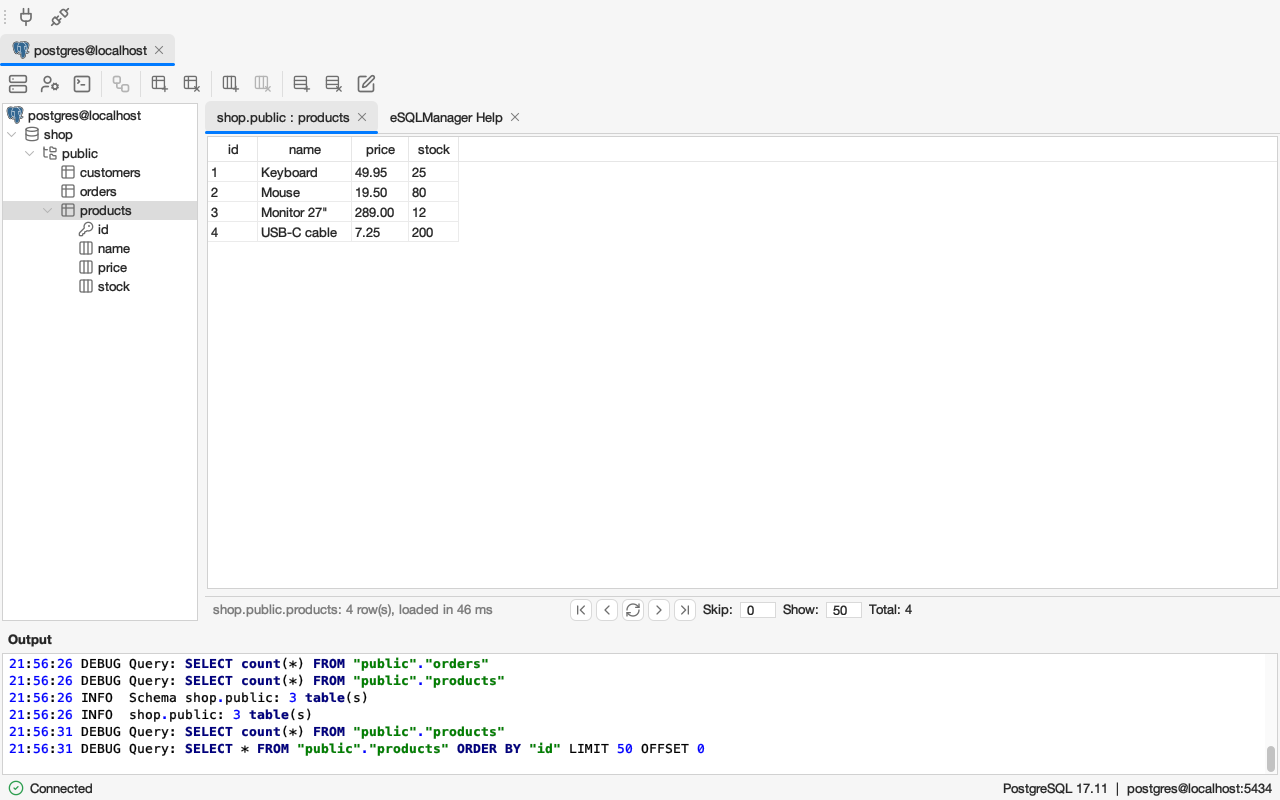
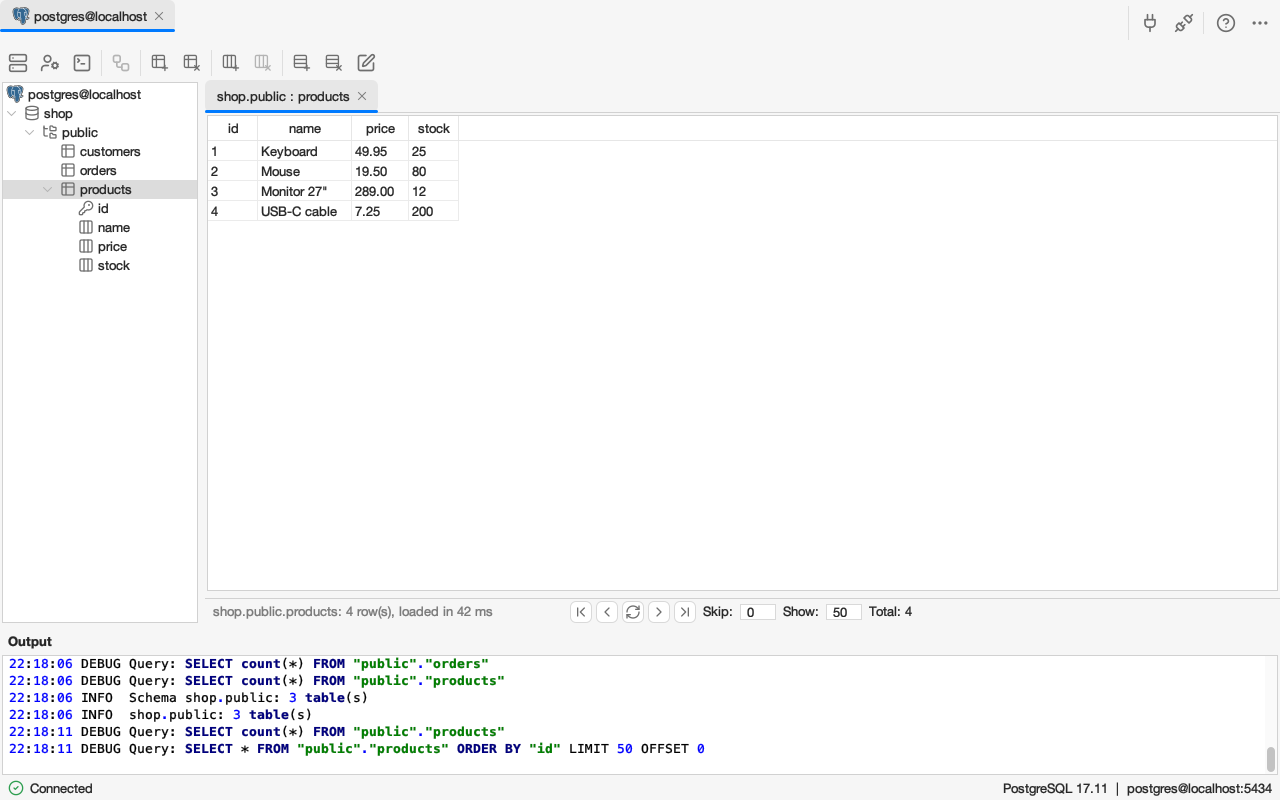
feat: show the window tabs next to the toolbar buttons
The window tabs fill the top row, the Connect and Disconnect buttons sit at
the right end behind a separator, followed by Help and Preferences buttons.
The help is a window tab of its own instead of a tab in each connection window.

Claude-Session: https://claude.ai/code/session_01TpgfMUNA4K1qpyx5mWFodg

Changed region(s): [[0.0, 0.0, 1.0, 0.375], [0.1562, 0.7188, 1.0, 0.7812], [0.0, 0.7812, 0.0625, 0.9375]]

diff --git a/src/main/java/nl/errorsoft/esql/app/ui/MainWindow.java b/src/main/java/nl/errorsoft/esql/app/ui/MainWindow.java
@@ -2,6 +2,7 @@ package nl.errorsoft.esql.app.ui;
 
 import nl.errorsoft.esql.app.ui.dialog.AboutDialog;
 
+import nl.errorsoft.esql.help.ui.HelpWindow;
 import nl.errorsoft.esql.ui.util.ToolbarButtons;
 
 import nl.errorsoft.esql.ui.dialog.Dialogs;
@@ -43,6 +44,10 @@ public class MainWindow extends JFrame implements ActionListener {
 	private JMenuItem exitItem;
 	private JMenu settingsMenu;
 	private JMenuItem settingsItem;
+	private JButton helpButton;
+	private JMenuItem helpItem;
+	private HelpWindow helpWindow; // The documentation, null while it is closed.
+	private JButton preferencesButton;
 	private JMenuItem jdbcItem;
 	private JMenu serverMenu;
 	private JMenuItem processesItem;
@@ -190,6 +195,8 @@ public class MainWindow extends JFrame implements ActionListener {
 
 		helpMenu = new JMenu("Help");
 		aboutItem = new JMenuItem("About...");
+		helpItem = new JMenuItem("eSQLManager Help");
+		helpMenu.add(helpItem);
 		helpMenu.add(aboutItem);
 		menubar.add(helpMenu);
 
@@ -200,7 +207,7 @@ public class MainWindow extends JFrame implements ActionListener {
 		 */
 		toolbar = new JToolBar();
 		toolbar.setLayout(new FlowLayout(FlowLayout.LEFT, 2, 0));
-		toolbar.setFloatable(true);
+		toolbar.setFloatable(false);
 		connectButton = new JButton(imageLoader.getIcon("imgConnect"));
 		connectButton.setEnabled(true);
 		connectButton.setToolTipText("Connect");
@@ -211,8 +218,20 @@ public class MainWindow extends JFrame implements ActionListener {
 		disconnectButton.setToolTipText("Disconnect");
 		toolbar.add(disconnectButton);
 
-		ToolbarButtons.style(connectButton, disconnectButton);
-		this.getContentPane().add(toolbar, BorderLayout.NORTH);
+		helpButton = new JButton(imageLoader.getIcon("imgHelp"));
+		helpButton.setToolTipText("Help");
+		helpButton.getAccessibleContext().setAccessibleName("Help");
+		JSeparator buttonsSeparator = new JSeparator(SwingConstants.VERTICAL);
+		buttonsSeparator.setPreferredSize(new Dimension(6, 22));
+		toolbar.add(buttonsSeparator);
+		toolbar.add(helpButton);
+
+		preferencesButton = new JButton(imageLoader.getIcon("imgPreferences"));
+		preferencesButton.setToolTipText("Preferences");
+		preferencesButton.getAccessibleContext().setAccessibleName("Preferences");
+		toolbar.add(preferencesButton);
+
+		ToolbarButtons.style(connectButton, disconnectButton, helpButton, preferencesButton);
 
 		/*
 		 *	Statusbar
@@ -260,8 +279,16 @@ public class MainWindow extends JFrame implements ActionListener {
 		desktop = new JDesktopPane();
 		desktop.setBackground(UIManager.getColor("Desktop.background"));
 		windowTabs = new WindowTabsPanel(desktop);
+		// The window tabs share the row with the toolbar buttons: tabs fill the width, the buttons sit at the right end behind a thin line.
+		JPanel topRow = new JPanel(new BorderLayout());
+		JPanel toolbarEnd = new JPanel(new BorderLayout());
+		toolbarEnd.setBorder(BorderFactory.createEmptyBorder(6, 4, 6, 0));
+		toolbarEnd.add(new JSeparator(SwingConstants.VERTICAL), BorderLayout.WEST);
+		toolbarEnd.add(toolbar, BorderLayout.CENTER);
+		topRow.add(windowTabs, BorderLayout.CENTER);
+		topRow.add(toolbarEnd, BorderLayout.EAST);
+		this.getContentPane().add(topRow, BorderLayout.NORTH);
 		JPanel workArea = new JPanel(new BorderLayout());
-		workArea.add(windowTabs, BorderLayout.NORTH);
 		workArea.add(desktop, BorderLayout.CENTER);
 
 		//ScrollPane for tree.
@@ -290,6 +317,9 @@ public class MainWindow extends JFrame implements ActionListener {
 		exitItem.addActionListener(this);
 
 		settingsItem.addActionListener(this);
+		preferencesButton.addActionListener(this);
+		helpButton.addActionListener(e -> showHelp());
+		helpItem.addActionListener(e -> showHelp());
 		nextWindowItem.addActionListener(e -> windowTabs.selectNext(1));
 		previousWindowItem.addActionListener(e -> windowTabs.selectNext(-1));
 
@@ -404,6 +434,19 @@ public class MainWindow extends JFrame implements ActionListener {
 		updateMenus();
 	}
 
+	/** Shows the help in a tab of its own, or brings it to the front when it is open. */
+	public void showHelp() {
+		if (helpWindow == null) {
+			helpWindow = new HelpWindow(() -> {
+				windowTabs.removeWindow(helpWindow);
+				helpWindow = null;
+			});
+			windowTabs.addWindow(helpWindow);
+		} else {
+			windowTabs.select(helpWindow);
+		}
+	}
+
 	/** Shows a designer on the desktop with a tab of its own, in front. */
 	public void addDesignerWindow(DesignerWindow designer) {
 		windowTabs.addWindow(designer);
@@ -458,7 +501,7 @@ public class MainWindow extends JFrame implements ActionListener {
 			closeWindow();
 		} else if (object == connectItem || object == connectButton) {
 			mainController.showConnectionProfileDialog();
-		} else if (object == settingsItem) {
+		} else if (object == settingsItem || object == preferencesButton) {
 			mainController.showSettingsDialog();
 		} else if (object == disconnectItem || object == disconnectButton) {
 			ConnectionWindow connectionWindow = getConnectionWindow();

diff --git a/src/main/java/nl/errorsoft/esql/connection/ui/ConnectionWindow.java b/src/main/java/nl/errorsoft/esql/connection/ui/ConnectionWindow.java
@@ -15,7 +15,6 @@ import nl.errorsoft.esql.connection.TreeMenu;
 import nl.errorsoft.esql.connection.TreeSelection;
 import nl.errorsoft.esql.database.ui.DatabaseTree;
 import nl.errorsoft.esql.query.ui.QueryTab;
-import nl.errorsoft.esql.help.ui.HelpPanel;
 import nl.errorsoft.esql.ui.icon.ImageLoader;
 import nl.errorsoft.esql.ui.component.EditorTab;
 
@@ -48,12 +47,10 @@ public class ConnectionWindow extends JInternalFrame implements ActionListener, 
 	private JScrollPane treeScroll; // Scroll pane for the tree
 	private JSplitPane treeSplit; // Tree and the tabs
 	private JTabbedPane tabbedPane; // Contains the tabs
-	private JScrollPane helpPane;
 	private static final String READY = "Ready"; // Only sizes the status bar
 	private JLabel status;
 	private JPanel navigation;
 	private Component viewTab; // The table data or table list, shown in front of the help
-	private HelpPanel html; // The user documentation from docs/.
 	private int queryTabs; // Query tabs opened so far, for their numbers
 	private static final String EDITOR_KEY = "ConnectionWindow.editorKey"; // Finds an editor tab again
 	private static final String STATUS_KEY = "ConnectionWindow.status"; // The status message of a tab
@@ -160,16 +157,10 @@ public class ConnectionWindow extends JInternalFrame implements ActionListener, 
 		 *		Right SplitPane setup
 		 */
 
-		// EditorPane
-		html = new HelpPanel();
-
 		// TabbedPane properties.
 		tabbedPane = new JTabbedPane();
 		tabbedPane.putClientProperty("JTabbedPane.tabClosable", true);
 		tabbedPane.putClientProperty("JTabbedPane.tabCloseCallback", (java.util.function.BiConsumer<JTabbedPane, Integer>) (pane, index) -> closeTab(index));
-		helpPane = new JScrollPane(html);
-		tabbedPane.addTab("eSQLManager Help", helpPane);
-		tabbedPane.setSelectedIndex(0);
 
 		/******************************************************************
 		 *
@@ -384,15 +375,6 @@ public class ConnectionWindow extends JInternalFrame implements ActionListener, 
 		}
 
 		viewTab = view;
-	}
-
-	/** Shows the help, also when its tab has been closed. */
-	public void showHelp() {
-		if (this.tabbedPane.indexOfComponent(helpPane) < 0) {
-			this.tabbedPane.addTab("eSQLManager Help", helpPane);
-		}
-
-		this.tabbedPane.setSelectedComponent(helpPane);
 	}
 
 	/** The paging buttons belong to the table data, they are only shown while that tab is in front. */

diff --git a/src/main/java/nl/errorsoft/esql/help/ui/HelpWindow.java b/src/main/java/nl/errorsoft/esql/help/ui/HelpWindow.java
@@ -1,0 +1,27 @@
+package nl.errorsoft.esql.help.ui;
+
+import javax.swing.JInternalFrame;
+import javax.swing.JScrollPane;
+import javax.swing.event.InternalFrameAdapter;
+import javax.swing.event.InternalFrameEvent;
+
+import nl.errorsoft.esql.app.ApplicationContext;
+
+/** The user documentation as a work window of the main window, with a tab of its own; it needs no connection. */
+public class HelpWindow extends JInternalFrame {
+	public static final String TITLE = "eSQLManager Help";
+
+	/** @param onClose called when the user closes the window, it takes the window off the desktop */
+	public HelpWindow(Runnable onClose) {
+		super(TITLE, true, true);
+		setFrameIcon(ApplicationContext.get().imageLoader().getIcon("imgHelpTab"));
+		setDefaultCloseOperation(JInternalFrame.DO_NOTHING_ON_CLOSE);
+		add(new JScrollPane(new HelpPanel()));
+		addInternalFrameListener(new InternalFrameAdapter() {
+			@Override
+			public void internalFrameClosing(InternalFrameEvent e) {
+				onClose.run();
+			}
+		});
+	}
+}

diff --git a/src/main/java/nl/errorsoft/esql/connection/control/ConnectionWindowController.java b/src/main/java/nl/errorsoft/esql/connection/control/ConnectionWindowController.java
@@ -194,7 +194,6 @@ public class ConnectionWindowController {
 			mainController.updateStatus("Loading databases...", true);
 			DatabaseController databaseController = new DatabaseController(this);
 			connectionWindow.showDatabaseTree(databaseController.getDatabaseTree());
-			connectionWindow.showHelp();
 			mainController.showConnectionState();
 		} catch (Exception e) {
 			ApplicationContext.get().errors().report(connectionWindow, "Load databases", e);
@@ -204,7 +203,6 @@ public class ConnectionWindowController {
 	/** Shows the databases listed on another thread in the tree, on the event thread. */
 	private void showDatabaseTree(List<Database> databases) {
 		connectionWindow.showDatabaseTree(new DatabaseController(this).databaseTree(databases));
-		connectionWindow.showHelp();
 		mainController.showConnectionState();
 	}
 

diff --git a/src/main/java/nl/errorsoft/esql/app/ApplicationContext.java b/src/main/java/nl/errorsoft/esql/app/ApplicationContext.java
@@ -39,6 +39,9 @@ public final class ApplicationContext {
 			images.addImage("../images/splash.gif", "esql");
 			images.addIcon("imgConnect", "connect", 20, false);
 			images.addIcon("imgDisconnect", "disconnect", 20, false);
+			images.addIcon("imgHelp", "circle-help", 20, false);
+			images.addIcon("imgHelpTab", "circle-help", 16, false);
+			images.addIcon("imgPreferences", "ellipsis", 20, false);
 			images.addIcon("pc", "server", 16, false);
 			images.addBrandIcon("serverPostgres", "brand-postgresql", 18);
 			images.addBrandIcon("serverMySql", "brand-mysql", 18);

diff --git a/CLAUDE.md b/CLAUDE.md
@@ -47,7 +47,7 @@ Java Swing database manager (originally an Errorsoft graduation project, 2002-20
 * Look and feel is FlatLaf, chosen through `settings.Appearance` (Follow the system, Light, Dark, Native) and stored in `conf/settings.xml` (`<appearance>`), changed in Settings > Preferences and applied at once. On macOS FlatLaf uses its Mac themes, `Main` sets the screen menu bar and system appearance properties before the first window (`Appearance.prepareDesktop`). The native macOS look was far too slow when resizing, so it is only used when the user picks Native.
 * Use Swing only, no AWT widgets (`Label`, `Button`, ...). Dialogs use layout managers, not null layouts with absolute bounds; `ui.util.Forms` gives the 12px padding, the button row at the bottom right, titled groups and a label/field grid. Only the designer canvas (`DesignerCanvas`, its cards, the text inside a `NoteCard`) and the splash (credits scrolled over a fixed image) place components at absolute positions.
 * Do not hardcode `Color.white` or `Color.gray`. Take colours from `UIManager` (grid lines `Table.gridColor`). A read-only `JTextPane` is painted grey by FlatLaf, set its background explicitly. A problem or success message takes `Forms.errorColor()` / `Forms.successColor()` (the theme's `Actions.Red`/`Actions.Green`, one fallback each).
-* The help tab (`help.ui.HelpPanel`) renders the Markdown of docs/ with `HelpPages.render(name, dark)`: a white page in light themes, a dark one in dark themes (the pane takes its background from the same `HelpPages.LIGHT_BACKGROUND`/`DARK_BACKGROUND`), rendered again when the look and feel changes.
+* The help (`help.ui.HelpPanel`, shown by `help.ui.HelpWindow`, a work window with its own tab in the window bar like a connection window; `MainWindow.showHelp` opens it or brings the open one forward, it needs no connection; the Help button, the Help menu item) renders the Markdown of docs/ with `HelpPages.render(name, dark)`: a white page in light themes, a dark one in dark themes (the pane takes its background from the same `HelpPages.LIGHT_BACKGROUND`/`DARK_BACKGROUND`), rendered again when the look and feel changes.
 * Settings has only the appearance; there is no auto-update.
 * Swing is touched on the event thread. `MainWindow.print` and `setStatusInfo` marshal themselves with `invokeLater`.
 * The query editor is an `RSyntaxTextArea` (com.fifesoft) in an `RTextScrollPane` with SQL highlighting, line numbers and the library's undo. `ui.editor.EditorTheme.install` gives it the RSyntaxTextArea theme `idea.xml` or `dark.xml` matching `FlatLaf.isLafDark()` and applies it again when the look and feel changes.
@@ -61,10 +61,11 @@ Java Swing database manager (originally an Errorsoft graduation project, 2002-20
 * Work windows are internal frames on the desktop of the main window (`JDesktopPane`): connection windows and designers. They are always maximized and have no title bar or border (`app.ui.WindowTabsPanel` removes the UI delegate's north pane, again after a change of look and feel); their menu bar (the designer's) stays inside the frame. `WindowTabsPanel`, a `JTabbedPane` with empty content above the desktop, has a tab per window with its frame icon (the server's brand icon, the designer icon) and title (kept in sync); selecting a tab selects the frame, an activated frame selects its tab, the close cross or a middle click calls `doDefaultCloseAction` so the frame's own close path asks (Disconnect / save), and `MainWindow.removeConnectionWindow`/`removeDesignerWindow` remove the tab. The Window menu lists the open windows plus Next/Previous window (menu key+Shift+] and [). There is no tiling or cascading. No feature opens a separate top level window for its work; dialogs stay dialogs.
 * README and docs screenshots are taken in the light appearance only.
 * Destructive actions (create and drop database) are in the context menus of the tree, not in the toolbar of the connection window. Closing a connection window asks "Disconnect from <title>?" (Disconnect / Cancel).
+* The top row of the main window holds the window tabs (`app.ui.WindowTabsPanel`, filling the width, same FlatLaf tab defaults as the tabs inside a connection window, 32px) on the left and, behind a thin vertical `JSeparator`, the toolbar on the right: Connect and Disconnect, a second separator, then Help (`MainWindow.showHelp`) and Preferences (Lucide ellipsis, opens the same dialog as the menu item).
 * The output panel is a read-only `RSyntaxTextArea` with SQL colouring (`ui.editor.EditorTheme`, same theme as the query editor): it shows the log exactly as written.
 * The output panel does not wrap lines (re-wrapping a long log made resizing slow), keeps at most 200000 characters, and the split pane uses continuous layout with `resizeWeight` 1.0.
 * FlatLaf defaults of the application are set centrally in `settings.Appearance` as FlatLaf global extra defaults, so they follow the theme and survive a change of look and feel: thin flat split pane dividers, and a selected tab with a darker background and the accent underline also without focus. A tab that is opened is always put in front (`setSelectedComponent`). Split panes have no one-touch arrows.
-* The status bar of the application shows the state with its light on the left and the server and account of the active connection on the right (`ConnectionWindowController.showStatusInfo`). What a connection did last ("shop: 4 table(s) opened in the designer") is shown in the status bar below the tabs of that connection's window (`ConnectionWindow.setStatus`), on the right. A message belongs to a tab (kept as a client property of the tab component): `ConnectionWindowController.setViewStatus` (a table loaded, a table list shown) gives it to the view tab (table data or list), tree actions (`setStatusDetail(text)`: schemas listed or created, opened in the designer) go to the output panel only, `setStatus(tab, text)` (`ConnectionWindowController.setStatusDetail(tab, ...)`, used by `QueryController` for its query tab) to a given tab, and switching tabs shows the message of the new tab; a tab without a message of its own (Help, a fresh query or editor tab) leaves the bar empty; the paging buttons of the table data (`TableDataTab.getNavigationBar`) sit on the left of the same bar while the data tab is in front.
+* The status bar of the application shows the state with its light on the left and the server and account of the active connection on the right (`ConnectionWindowController.showStatusInfo`). What a connection did last ("shop: 4 table(s) opened in the designer") is shown in the status bar below the tabs of that connection's window (`ConnectionWindow.setStatus`), on the right. A message belongs to a tab (kept as a client property of the tab component): `ConnectionWindowController.setViewStatus` (a table loaded, a table list shown) gives it to the view tab (table data or list), tree actions (`setStatusDetail(text)`: schemas listed or created, opened in the designer) go to the output panel only, `setStatus(tab, text)` (`ConnectionWindowController.setStatusDetail(tab, ...)`, used by `QueryController` for its query tab) to a given tab, and switching tabs shows the message of the new tab; a tab without a message of its own (a fresh query or editor tab) leaves the bar empty; the paging buttons of the table data (`TableDataTab.getNavigationBar`) sit on the left of the same bar while the data tab is in front.
 
 ### Logging and output
 
@@ -97,7 +98,7 @@ Java Swing database manager (originally an Errorsoft graduation project, 2002-20
 * `runtime/` is the working directory: `conf/` (profiles, drivers, datatypes, settings), `credits.txt`. Code reads `conf/...` relative to the working directory, also in tests (surefire `workingDirectory`).
 * `runtime/conf/profiles.xml` must not contain passwords or local test profiles when committed. Running the application rewrites it (`lastUsed`), so `git checkout runtime/conf/profiles.xml` before committing.
 * JDBC drivers come from Maven Central, no jars in the repository. Only PostgreSQL (BSD-2) and SQL Server (MIT) are bundled. MySQL (GPLv2 with FOSS exception) and Oracle (FUTC) are downloaded on first use by `driver.DriverService` into `DataDirectory.drivers()` (`~/.esqlmanager/drivers`, system property `esql.drivers` overrides it) at the version and SHA-256 pinned in `driver.DriverArtifact` (the trust anchor; checked on download and on every load, a mismatch is deleted and is an `EsqlException`). A jar is loaded by its own `URLClassLoader` and registered with `DriverManager` through `DriverService.DelegatingDriver`. `DatabaseConnection.connect` loads the driver through `ApplicationContext.drivers()`; `ServerType.driverSource()` says where it comes from (own jar from `<driverJar>` in driver.xml, bundled, or downloaded). `driver.control.DriverDownloadController.ensureDriver` asks before connecting or testing a connection. MySQL stays a test-scope dependency for the contract tests. Upgrading a downloaded driver means changing the version, size and SHA-256 in `DriverArtifact` (compare with the `.sha1` on Central).
-* The user documentation is Markdown in `docs/` (index.md, getting-started.md, tables-and-columns.md, query.md, designer.md, settings.md), with its images next to it. Maven copies `docs/*.md` and `docs/*.png` into the jar under `/docs`; `help.HelpPages` renders a page with commonmark (+ GFM tables) to HTML 3.2 friendly HTML and `help.ui.HelpPanel` shows it in the help tab (links to .md pages stay in the pane, http(s) links open in the browser). Update these pages when a feature changes.
+* The user documentation is Markdown in `docs/` (index.md, getting-started.md, tables-and-columns.md, query.md, designer.md, settings.md), with its images next to it. Maven copies `docs/*.md` and `docs/*.png` into the jar under `/docs`; `help.HelpPages` renders a page with commonmark (+ GFM tables) to HTML 3.2 friendly HTML and `help.ui.HelpPanel` shows it in the help window (links to .md pages stay in the pane, http(s) links open in the browser). Update these pages when a feature changes.
 * Images and `log4j2.xml` are in `src/main/resources`. Images are loaded through `ImageLoader` (cached, paths relative to the classpath root).
 * Icons are Lucide SVGs in `src/main/resources/icons/svg` (ISC license, `NOTICE.txt`), drawn with FlatLaf's `FlatSVGIcon` so they follow the theme. A new icon is a stroke `#6e6e6e` SVG plus an `images.addIcon(name, file, size, selected)` line in `ApplicationContext.imageLoader()`; callers use `imageLoader().getIcon(name)`, never `new ImageIcon(...)`. The tree uses a `...sel` variant (selection colour) for selected rows. Brand icons (`addBrandIcon`) keep their colour, are lightened on dark themes and have a white `...sel` variant for selected rows. The application logo is `icons/logo.svg` (own artwork), rendered by `ImageLoader.logoImages()` as the window icons and the macOS Dock icon (`java.awt.Taskbar`). The only GIF left is the splash. Server logos are Devicon (MIT) and Simple Icons (CC0) SVGs (trademarks of their owners) named `brand-<slug>.svg`, filled with the brand colours and registered at 18px with `images.addBrandIcon` (keeps its colour when selected, lighter on a dark theme). `ServerType.iconName()` is the only place that maps a server type to its icon; the profile lists (`connection.ui.ServerIconRenderer`), the connection window's frame icon (shown in its window tab) and the server node of the tree use it.
 * There is no licensing, registration or auto-update any more; do not reintroduce them.

diff --git a/README.md b/README.md
@@ -10,7 +10,7 @@ A graphical database manager written in Java Swing. It started in 2002 as a grad
 
 ## Documentation
 
-The user documentation is in [docs/](docs/index.md): [getting started](docs/getting-started.md), [tables and columns](docs/tables-and-columns.md), [SQL query](docs/query.md), [database designer](docs/designer.md) and [settings](docs/settings.md). The same Markdown pages are the help tab of the application.
+The user documentation is in [docs/](docs/index.md): [getting started](docs/getting-started.md), [tables and columns](docs/tables-and-columns.md), [SQL query](docs/query.md), [database designer](docs/designer.md) and [settings](docs/settings.md). The same Markdown pages are the help of the application, a tab of its own in the window bar.
 
 ## Features
 
@@ -69,9 +69,9 @@ Each database has its own dialect (`nl.errorsoft.esql.dialect`) that decides how
 | Appearance: follow the system, light, dark or native | yes | yes | yes | yes |
 | Preferences: editor font size, default folder and file encoding | yes | yes | yes | yes |
 | Brand icons of the servers, the eSQL logo as window and Dock icon | yes | yes | yes | yes |
-| In-app help: the Markdown pages of docs/ in a help tab | yes | yes | yes | yes |
+| In-app help: the Markdown pages of docs/ in a help tab of its own | yes | yes | yes | yes |
 
-The SQL query opens as a tab of the connection window ("Query", "Query 2", ...). Every statement that returns rows gets its own result tab below the editor, named after the statement (hover for the full text), with when it ran, on which database, the row count and the time taken; the newest is in front and at most 20 are kept. The bar below the tabs shows the message of the tab in front (a query's outcome, the rows loaded on the table data) and is empty for a tab without one, such as the help. The tab in front has a darker background and a coloured underline. Shortcuts in the editor: Cmd+Enter (Ctrl+Enter on Windows and Linux) runs the selection or the statement at the caret, Cmd+Shift+Enter runs all statements in order and stops at the first error; Ctrl+Space, Cmd+Space and Cmd+Shift+Space (Ctrl+Shift+Space elsewhere) open the completion, typing a period after a table or alias opens its columns. macOS gives Cmd+Space to Spotlight; turn that shortcut off in System Settings > Keyboard > Keyboard Shortcuts > Spotlight to use it for completion.
+The SQL query opens as a tab of the connection window ("Query", "Query 2", ...). Every statement that returns rows gets its own result tab below the editor, named after the statement (hover for the full text), with when it ran, on which database, the row count and the time taken; the newest is in front and at most 20 are kept. The bar below the tabs shows the message of the tab in front (a query's outcome, the rows loaded on the table data) and is empty for a tab without one, such as a fresh query tab. The tab in front has a darker background and a coloured underline. Shortcuts in the editor: Cmd+Enter (Ctrl+Enter on Windows and Linux) runs the selection or the statement at the caret, Cmd+Shift+Enter runs all statements in order and stops at the first error; Ctrl+Space, Cmd+Space and Cmd+Shift+Space (Ctrl+Shift+Space elsewhere) open the completion, typing a period after a table or alias opens its columns. macOS gives Cmd+Space to Spotlight; turn that shortcut off in System Settings > Keyboard > Keyboard Shortcuts > Spotlight to use it for completion.
 
 Right click a server, database, table or column in the tree for its context menu. It only lists what the server supports: Users, Process list, Status and Variables on the server, Open in designer, Export, Import and Properties on a database, Edit, Indexes, Rename, Duplicate, Properties and the maintenance commands (Optimize and Analyze, plus Check and Repair on MySQL) on a table.
 

diff --git a/docs/getting-started.md b/docs/getting-started.md
@@ -36,7 +36,7 @@ Several connections can be open at the same time. Each connection window, and ea
   * schema (PostgreSQL): New query, Create table, Open in designer, Export, Import, Rename schema, Drop schema, Reload tables;
   * table: Open, Edit table, Indexes, Add field, Rename table, Duplicate table, Export, the maintenance commands, Empty table, Drop table, Properties, Reload columns;
   * column: Add field, Edit field, Drop field.
-* **Tabs** on the right: the table list or the table data in the first tab, query tabs ("Query", "Query 2", ...) and this help. Every tab has a close button; the tab in front has a darker background and a coloured underline.
+* **Tabs** on the right: the table list or the table data in the first tab, query tabs ("Query", "Query 2", ...). Every tab has a close button; the tab in front has a darker background and a coloured underline.
 * **Toolbar**: create and drop a table, add and delete a field, insert, update and delete a row, run an SQL query, open the database in the designer, the user manager and refresh the tree. Buttons are enabled when they apply to what is selected.
 * **Output panel** at the bottom: the log of the connection, with the server version and driver and every executed statement.
 
@@ -44,5 +44,5 @@ Closing the window asks "Disconnect from ...?" first.
 
 ## Status bars
 
-* The bar below the tabs shows the message of the tab in front: on the table data how many rows were loaded and how long it took, on a query tab the outcome of its last run. A tab without a message of its own, such as the help, leaves it empty. While the table data is in front, the paging buttons are in the same bar. What happens in the tree (schemas listed, a model opened in the designer) is in the output panel.
+* The bar below the tabs shows the message of the tab in front: on the table data how many rows were loaded and how long it took, on a query tab the outcome of its last run. A tab without a message of its own, such as a fresh query tab, leaves it empty. While the table data is in front, the paging buttons are in the same bar. What happens in the tree (schemas listed, a model opened in the designer) is in the output panel.
 * The status bar of the application shows a light for the state of the active connection and, on the right, its server and account.

diff --git a/docs/index.md b/docs/index.md
@@ -1,6 +1,6 @@
 # eSQLManager help
 
-eSQLManager is a database manager for MySQL and PostgreSQL. SQL Server and Oracle can be browsed. Every connection opens in its own window: the database tree on the left, tabs with table data, queries and this help on the right, and the output panel with the log at the bottom.
+eSQLManager is a database manager for MySQL and PostgreSQL. SQL Server and Oracle can be browsed. Every connection opens in its own window: the database tree on the left, tabs with table data and queries on the right, and the output panel with the log at the bottom.
 
 ![The connection window with the products table of a PostgreSQL database](screenshot.png)
 
